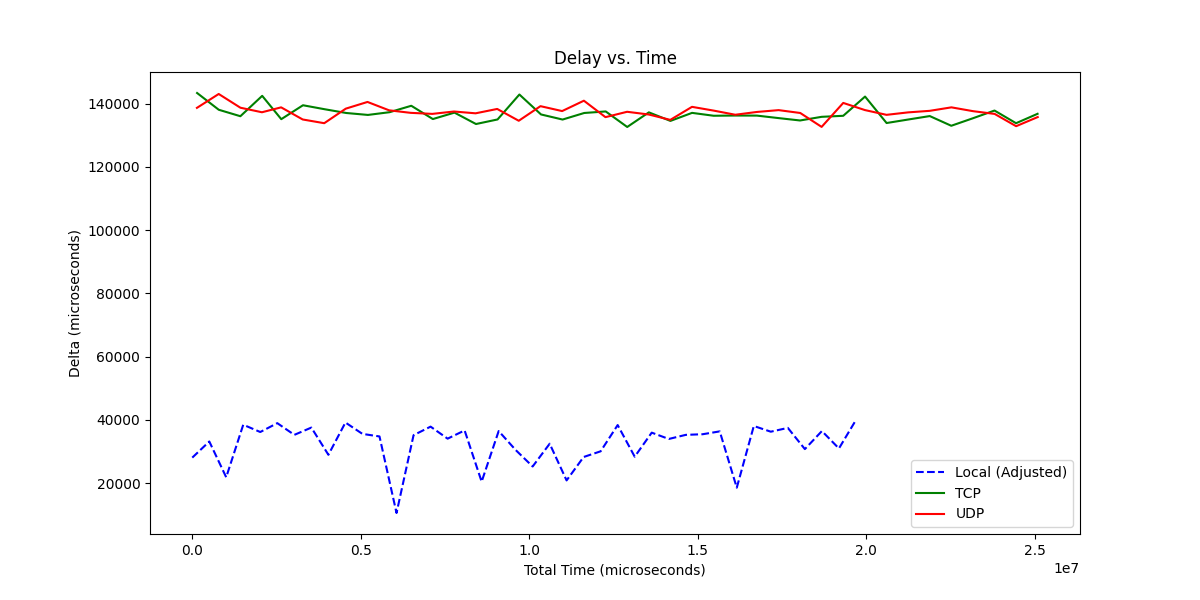
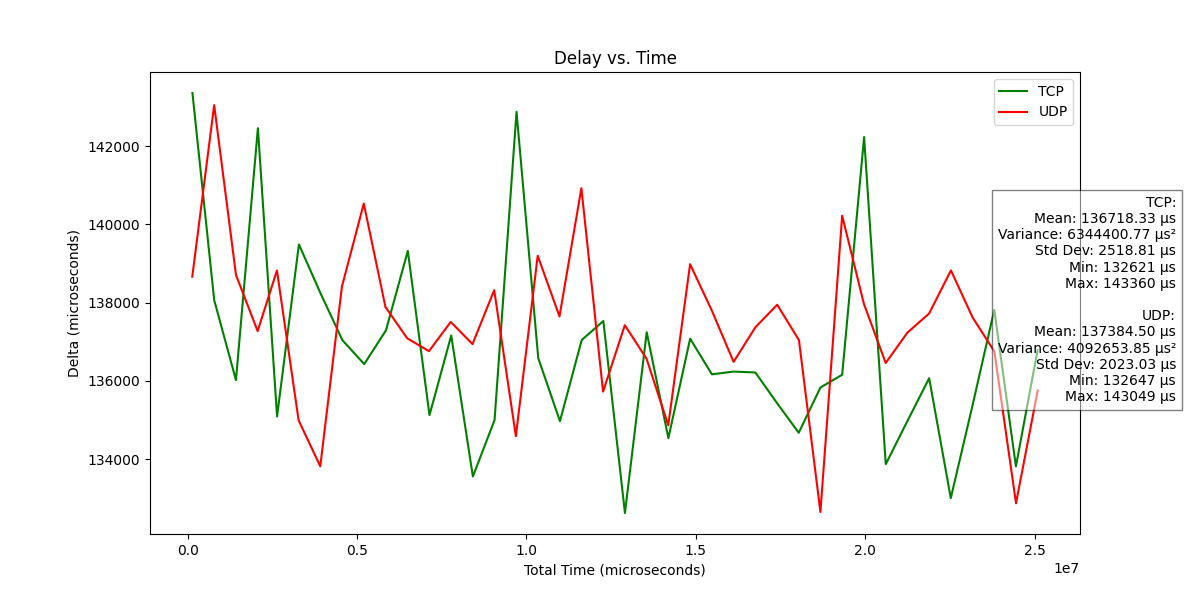
adding image with local comparation

diff --git a/LAB7/analysis/plot_delay.py b/LAB7/analysis/plot_delay.py
@@ -1,5 +1,7 @@
 import os
 import matplotlib.pyplot as plt
+import numpy as np
+import argparse
 
 # Define the paths to the result files
 RESULTS_DIR = './results'
@@ -28,28 +30,35 @@ def parse_results(file_path, delimiter=','):
             results.append((total_time, delta))
     return results
 
-def adjust_local_results(local_results):
+def compute_statistics(data):
     """
-    Adjusts the local results by normalizing them to match the scale of external results.
+    Computes statistics (mean, variance, standard deviation, min, max) for the delta values.
     
     Parameters:
-        local_results (list of tuples): The parsed local results.
+        data (list of tuples): The parsed results.
         
     Returns:
-        list of tuples: The adjusted local results.
+        dict: A dictionary containing the statistics.
     """
-    scale_factor = 100  # Adjust this factor based on the magnitude difference
-    adjusted_results = [(total, delta * scale_factor) for total, delta in local_results]
-    return adjusted_results
+    deltas = [delta for _, delta in data]
+    stats = {
+        'mean': np.mean(deltas),
+        'variance': np.var(deltas),
+        'std_dev': np.std(deltas),
+        'min': np.min(deltas),
+        'max': np.max(deltas)
+    }
+    return stats
 
-def plot_results(local_results, tcp_results, udp_results, dpi=500):
+def plot_results(local_results, tcp_results, udp_results, show_local, dpi):
     """
     Plots the delay as a function of time for local, TCP, and UDP results, and saves the plot as an image.
     
     Parameters:
-        local_results (list of tuples): The parsed and adjusted local results.
+        local_results (list of tuples): The parsed local results.
         tcp_results (list of tuples): The parsed TCP results.
         udp_results (list of tuples): The parsed UDP results.
+        show_local (bool): Whether to show the local results in the plot.
         dpi (int): The resolution of the saved plot image.
     """
     # Create images directory if it doesn't exist
@@ -58,46 +67,67 @@ def plot_results(local_results, tcp_results, udp_results, dpi=500):
     plt.figure(figsize=(12, 6), dpi=dpi)
     
     # Extract data for plotting
-    local_times, local_deltas = zip(*local_results)
     tcp_times, tcp_deltas = zip(*tcp_results)
     udp_times, udp_deltas = zip(*udp_results)
     
-    # Plot the data
-    plt.plot(local_times, local_deltas, label='Local (Adjusted)', color='blue', linestyle='--')
+    # Plot TCP and UDP results
     plt.plot(tcp_times, tcp_deltas, label='TCP', color='green')
     plt.plot(udp_times, udp_deltas, label='UDP', color='red')
     
+    # Plot local results if requested
+    if show_local:
+        local_times, local_deltas = zip(*local_results)
+        plt.plot(local_times, local_deltas, label='Local', color='blue', linestyle='--')
+
+    # Compute statistics
+    tcp_stats = compute_statistics(tcp_results)
+    udp_stats = compute_statistics(udp_results)
+
     # Add labels and title
     plt.xlabel('Total Time (microseconds)')
     plt.ylabel('Delta (microseconds)')
     plt.title('Delay vs. Time')
     plt.legend()
+
+    # Display statistics on the plot
+    stats_text = (
+        f"TCP:\n"
+        f"Mean: {tcp_stats['mean']:.2f} µs\n"
+        f"Variance: {tcp_stats['variance']:.2f} µs²\n"
+        f"Std Dev: {tcp_stats['std_dev']:.2f} µs\n"
+        f"Min: {tcp_stats['min']} µs\n"
+        f"Max: {tcp_stats['max']} µs\n\n"
+        f"UDP:\n"
+        f"Mean: {udp_stats['mean']:.2f} µs\n"
+        f"Variance: {udp_stats['variance']:.2f} µs²\n"
+        f"Std Dev: {udp_stats['std_dev']:.2f} µs\n"
+        f"Min: {udp_stats['min']} µs\n"
+        f"Max: {udp_stats['max']} µs"
+    )
     
-    # Save plot as an image
-    plot_filename = os.path.join(IMAGES_DIR, 'delay_vs_time.png')
+    plt.gcf().text(0.98, 0.5, stats_text, fontsize=10, va='center', ha='right', bbox=dict(facecolor='white', alpha=0.5))
+    
+    # Save plot as an image with different filenames for local results
+    plot_filename = os.path.join(IMAGES_DIR, 'delay_vs_time_local.png' if show_local else 'delay_vs_time.png')
     plt.savefig(plot_filename, dpi=dpi)
     
     # Show plot
     plt.grid(True)
     plt.show()
 
-def main(dpi=100):
+def main(dpi=100, show_local=False):
     # Parse the result files
     local_results = parse_results(LOCAL_RESULTS_FILE)
     tcp_results = parse_results(TCP_RESULTS_FILE, delimiter='|')
     udp_results = parse_results(UDP_RESULTS_FILE, delimiter='|')
     
-    # Adjust the local results for better visualization
-    adjusted_local_results = adjust_local_results(local_results)
-    
     # Plot the results
-    plot_results(adjusted_local_results, tcp_results, udp_results, dpi)
+    plot_results(local_results, tcp_results, udp_results, show_local, dpi)
 
 if __name__ == "__main__":
-    import argparse
-
     parser = argparse.ArgumentParser(description='Plot delay vs. time from result files.')
     parser.add_argument('--dpi', type=int, default=100, help='The resolution of the saved plot image (default: 100).')
+    parser.add_argument('--show-local', action='store_true', help='Show local results in the plot.')
     args = parser.parse_args()
 
-    main(dpi=args.dpi)
+    main(dpi=args.dpi, show_local=args.show_local)
